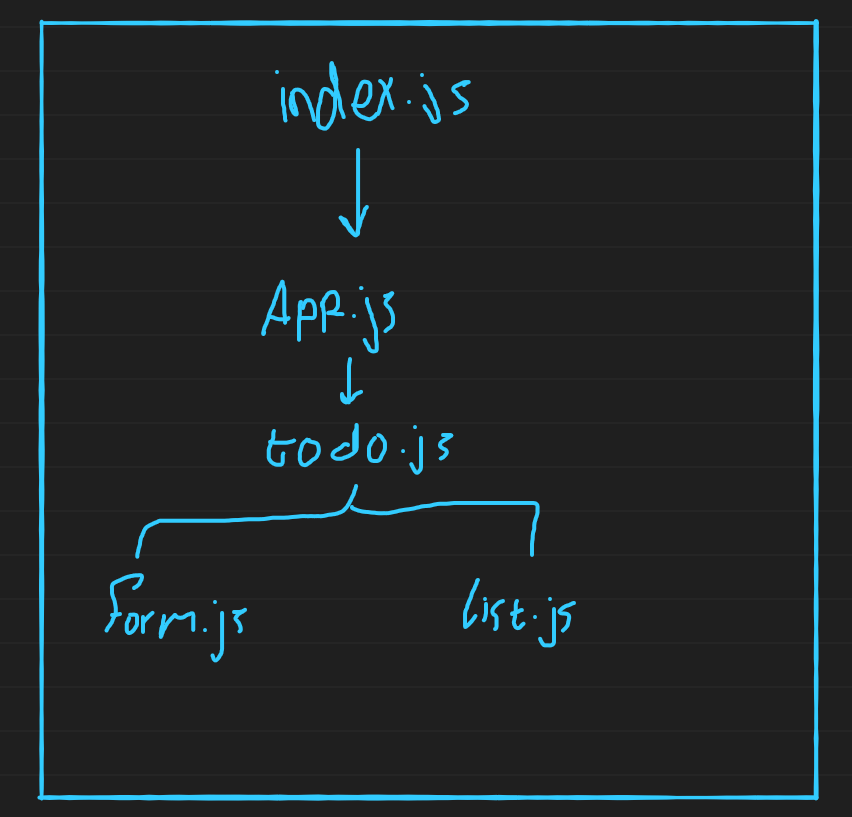
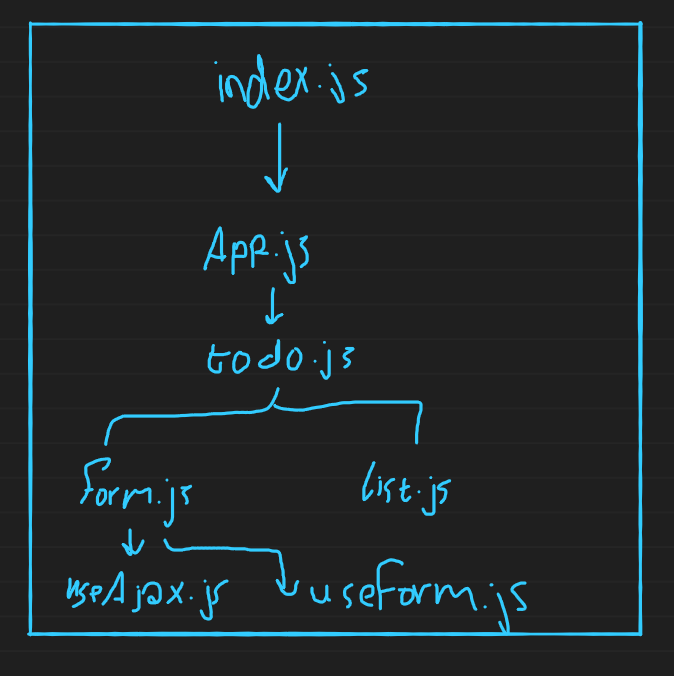
done

Changed region(s): [[0.0312, 0.0, 0.9659, 0.9941], [0.5297, 0.6834, 0.6855, 0.8077], [0.3739, 0.1864, 0.4362, 0.3107]]

diff --git a/src/components/todo/todo.js b/src/components/todo/todo.js
@@ -8,98 +8,29 @@ import Button from "react-bootstrap/Button";
 import "bootstrap/dist/css/bootstrap.min.css";
 import TodoForm from "./form.js";
 import TodoList from "./list.js";
+import axios from "axios";
 
 import "./todo.scss";
+import useAjax from "../../hooks/useAjax.js";
 function ToDo() {
-  const [list, setlist] = useState([]);
+  const todoServerUrl = `https://api-server13.herokuapp.com/api/v1/todo`;
+  const [list, addItem, editItem, deleteItem] = useAjax(todoServerUrl);
   const [itemIdToEdit, setitemIdToEdit] = useState({});
-
   const [show, setShow] = useState(false);
+
+  //const {list} = useAjax(todoServerUrl);
+  //console.log(data);
+  //setlist(data);
   const handleClose = (item) => {
     setShow(false);
     if (item && item.text) editItem(itemIdToEdit, item);
   };
   const handleShow = () => setShow(true);
-
-  useEffect(() => {
-    let list = [
-      {
-        _id: 1,
-        complete: false,
-        text: "Clean the Kitchen",
-        difficulty: 3,
-        assignee: "Person A",
-      },
-      {
-        _id: 2,
-        complete: false,
-        text: "Do the Laundry",
-        difficulty: 2,
-        assignee: "Person A",
-      },
-      {
-        _id: 3,
-        complete: false,
-        text: "Walk the Dog",
-        difficulty: 4,
-        assignee: "Person B",
-      },
-      {
-        _id: 4,
-        complete: true,
-        text: "Do Homework",
-        difficulty: 3,
-        assignee: "Person C",
-      },
-      {
-        _id: 5,
-        complete: false,
-        text: "Take a Nap",
-        difficulty: 1,
-        assignee: "Person B",
-      },
-    ];
-    console.log("DidMount????");
-    setlist(list);
-    document.title = `ToDo list : ${
-      list.filter((item) => !item.complete).length
-    }`;
-  }, []);
-  const addItem = (item) => {
-    item._id = Math.random();
-    item.complete = false;
-    setlist([...list, item]);
-  };
-
   const toggleComplete = (id) => {
     let item = list.filter((i) => i._id === id)[0] || {};
-    if (item._id) {
-      item.complete = !item.complete;
-      let newList = list.map((listItem) =>
-        listItem._id === item._id ? item : listItem
-      );
-      setlist(newList);
-    }
+    item.complete = !item.complete;
+    editItem(id, item);
   };
-
-  const deleteItem = (id) => {
-    console.log("delete", id);
-    let newList = list.filter((item) => item._id != id);
-    console.log(newList.length);
-    setlist(newList);
-  };
-
-  const editItem = (id, newItem) => {
-    newItem._id = id;
-    // add complete state from the oldItem
-    let oldItem = list.find((item) => item._id == id);
-    newItem.complete = oldItem.complete;
-    let newList = list.map((listItem) => {
-      return listItem._id == id ? newItem : listItem;
-    });
-    setlist(newList);
-  };
-
   return (
     <>
       <header>

diff --git a/src/components/todo/list.js b/src/components/todo/list.js
@@ -1,29 +1,51 @@
 import Button from "react-bootstrap/Button";
 import React from "react";
 import { useState, useEffect } from "react";
+import Card from "react-bootstrap/Card";
+import Badge from "react-bootstrap/Badge";
 import "bootstrap/dist/css/bootstrap.min.css";
 
 function TodoList(props) {
+  const getToDoItemStatusBadge = (item) => {
+    const variant = item.complete ? "danger" : "success";
+    const text = item.complete ? "complete" : "pending";
+    return (
+      <Badge style={{ width: "30%" }} variant={variant}>
+        {text}
+      </Badge>
+    );
+  };
   return (
     <ul>
       {props.list.map((item) => (
-        <li className={`complete-${item.complete.toString()}`} key={item._id}>
-          <span onClick={() => props.handleComplete(item._id)}>
-            {item.text}
-          </span>
-          <Button
-            variant="danger"
-            onClick={() => props.handleDeleteItem(item._id)}
-          >
-            Delete
-          </Button>
-          <Button
-            variant="primary"
-            onClick={()=>{
-              props.handleItemIdToEdit(item._id);
-              props.handleShow();
-            }}
-          >Edit</Button>
+        <li  key={item._id}>
+          <Card>
+            <Card.Header as="h5">
+              {getToDoItemStatusBadge(item)} {item.assignee}
+            </Card.Header>
+            <Card.Body>
+              <Card.Text>
+                <span onClick={() => props.handleComplete(item._id)}>
+                  {item.text}
+                </span>
+              </Card.Text>
+              <Button
+                variant="danger"
+                onClick={() => props.handleDeleteItem(item._id)}
+              >
+                Delete
+              </Button>
+              <Button
+                variant="primary"
+                onClick={() => {
+                  props.handleItemIdToEdit(item._id);
+                  props.handleShow();
+                }}
+              >
+                Edit
+              </Button>
+            </Card.Body>
+          </Card>
         </li>
       ))}
     </ul>

diff --git a/src/hooks/useAjax.js b/src/hooks/useAjax.js
@@ -1,0 +1,45 @@
+import axios from "axios";
+import { useState, useEffect } from "react";
+
+const useAjax = (url) => {
+  const [data, setData] = useState([]);
+  useEffect(() => {
+    //api call to load data from https://api-server13.herokuapp.com/api/v1/todo
+    const getData = async () => {
+      try {
+        const response = await axios.get(url);
+        const data = response.data;
+        setData(data);
+      } catch (error) {
+        console.log("Error : ", error.message());
+      }
+    };
+    getData();
+  }, []);
+  const post = async (item) => {
+    const response = await axios.post(url, item);
+    item = response.data;
+    setData([...data, item]);
+  };
+  const update = async (id, item) => {
+    const response = await axios.put(url + "/" + id, item);
+    const updatedItem = response.data;
+    //console.log(updatedItem);
+    const newData = data.map((item) => {
+      if (item._id == updatedItem._id) {
+        return updatedItem;
+      } else return item;
+    });
+    setData(newData);
+  };
+  const _delete = async (id) => {
+    const response = await axios.delete(url + "/" + id);
+    if (response.status == 200) {
+      let newData = data.filter((item) => item._id != id);
+      //console.log(newList.length);
+      setData(newData);
+    }
+  };
+  return [data, post, update, _delete];
+};
+export default useAjax;

diff --git a/src/components/todo/form.js b/src/components/todo/form.js
@@ -4,19 +4,20 @@ import "bootstrap/dist/css/bootstrap.min.css";
 import Button from "react-bootstrap/Button";
 
 import { useState, useEffect } from "react";
+import useForm from "../../hooks/useForm";
 
 function TodoForm(props) {
-  const [item, setitem] = useState({});
-  const handleInputChange = (e) => {
-    setitem({ ...item, [e.target.name]: e.target.value });
-  };
-  const handleSubmit = (e) => {
-    e.preventDefault();
-    e.target.reset();
-    props.handleSubmit(item);
-    const tempItem = {};
-    setitem(tempItem);
-  };
+  const [item, handleInputChange, handleSubmit] = useForm(props.handleSubmit);
+  // const handleInputChange = (e) => {
+  //   setitem({ ...item, [e.target.name]: e.target.value });
+  // };
+  // const handleSubmit = (e) => {
+  //   e.preventDefault();
+  //   e.target.reset();
+  //   props.handleSubmit(item);
+  //   const tempItem = {};
+  //   setitem(tempItem);
+  // };
 
   return (
     <>

diff --git a/src/components/todo/todo.scss b/src/components/todo/todo.scss
@@ -21,7 +21,9 @@ html {
     padding: 1em;
   }
 }
-
+.itemStatus {
+  width: 20%;
+}
 .todo {
   display: flex;
   flex-direction: row;
@@ -52,30 +54,9 @@ html {
       flex-direction: row;
       font-size: 1em;
 
-      &.complete-true {
-        span {
-          background: rgb(95, 194, 138);
-          color: green;
-          &:hover {
-            background: seagreen;
-          }
-        }
-      }
+     
 
-      span {
-        background: #e0e0e0;
-        cursor: pointer;
-        &:hover {
-          background: pink;
-        }
-      }
-      span,
-      input {
-        border: 0.5px solid #eee;
-        display: inline-block;
-        padding: 0.2em 0.25em;
-        width: 300px;
-      }
+      
 
       button {
         border: none;

diff --git a/src/hooks/useForm.js b/src/hooks/useForm.js
@@ -1,0 +1,18 @@
+import { useState } from 'react';
+const useForm = (cb) => {
+  const [state, setState] = useState({});
+  const handleSubmit = (e) => {
+    e.preventDefault();
+    console.log(state);
+    // if you are ready call your component with data
+    cb(state);
+    const tempItem = {};
+    setState(tempItem);  
+  };
+  const handleChange = (e) => {
+    setState({ ...state, [e.target.name]: e.target.value });
+  };
+  return [state, handleChange, handleSubmit];
+};
+
+export default useForm;
